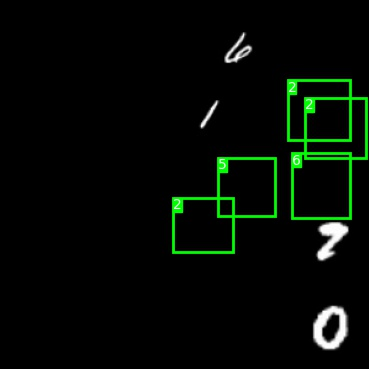
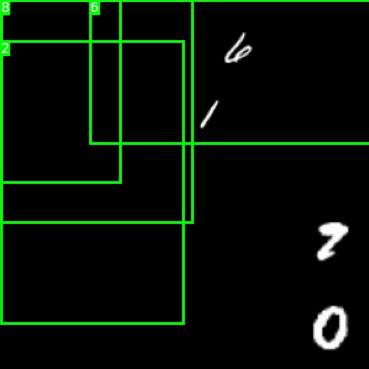
added mobilenetv1

Changed region(s): [[0.0, 0.0, 1.0, 0.8943]]

diff --git a/test.py b/test.py
@@ -51,7 +51,7 @@ def predict(img, default_boxes):
     for c in range(1, num_classes):
         cls_scores = confs[:, c]
 
-        score_idx = cls_scores > 0.20
+        score_idx = cls_scores > 0.12
         # cls_boxes = tf.boolean_mask(boxes, score_idx)
         # cls_scores = tf.boolean_mask(cls_scores, score_idx)
         cls_boxes = boxes[score_idx]

diff --git a/train.py b/train.py
@@ -10,7 +10,7 @@ import numpy as np
 from tensorflow.keras.optimizers.schedules import PiecewiseConstantDecay
 from anchor import generate_default_boxes
 from losses import create_losses
-from get_model import get_mobilenet_SSD
+from get_model2 import get_mobilenet_SSD
 
 from voc_data import create_batch_generator
 
